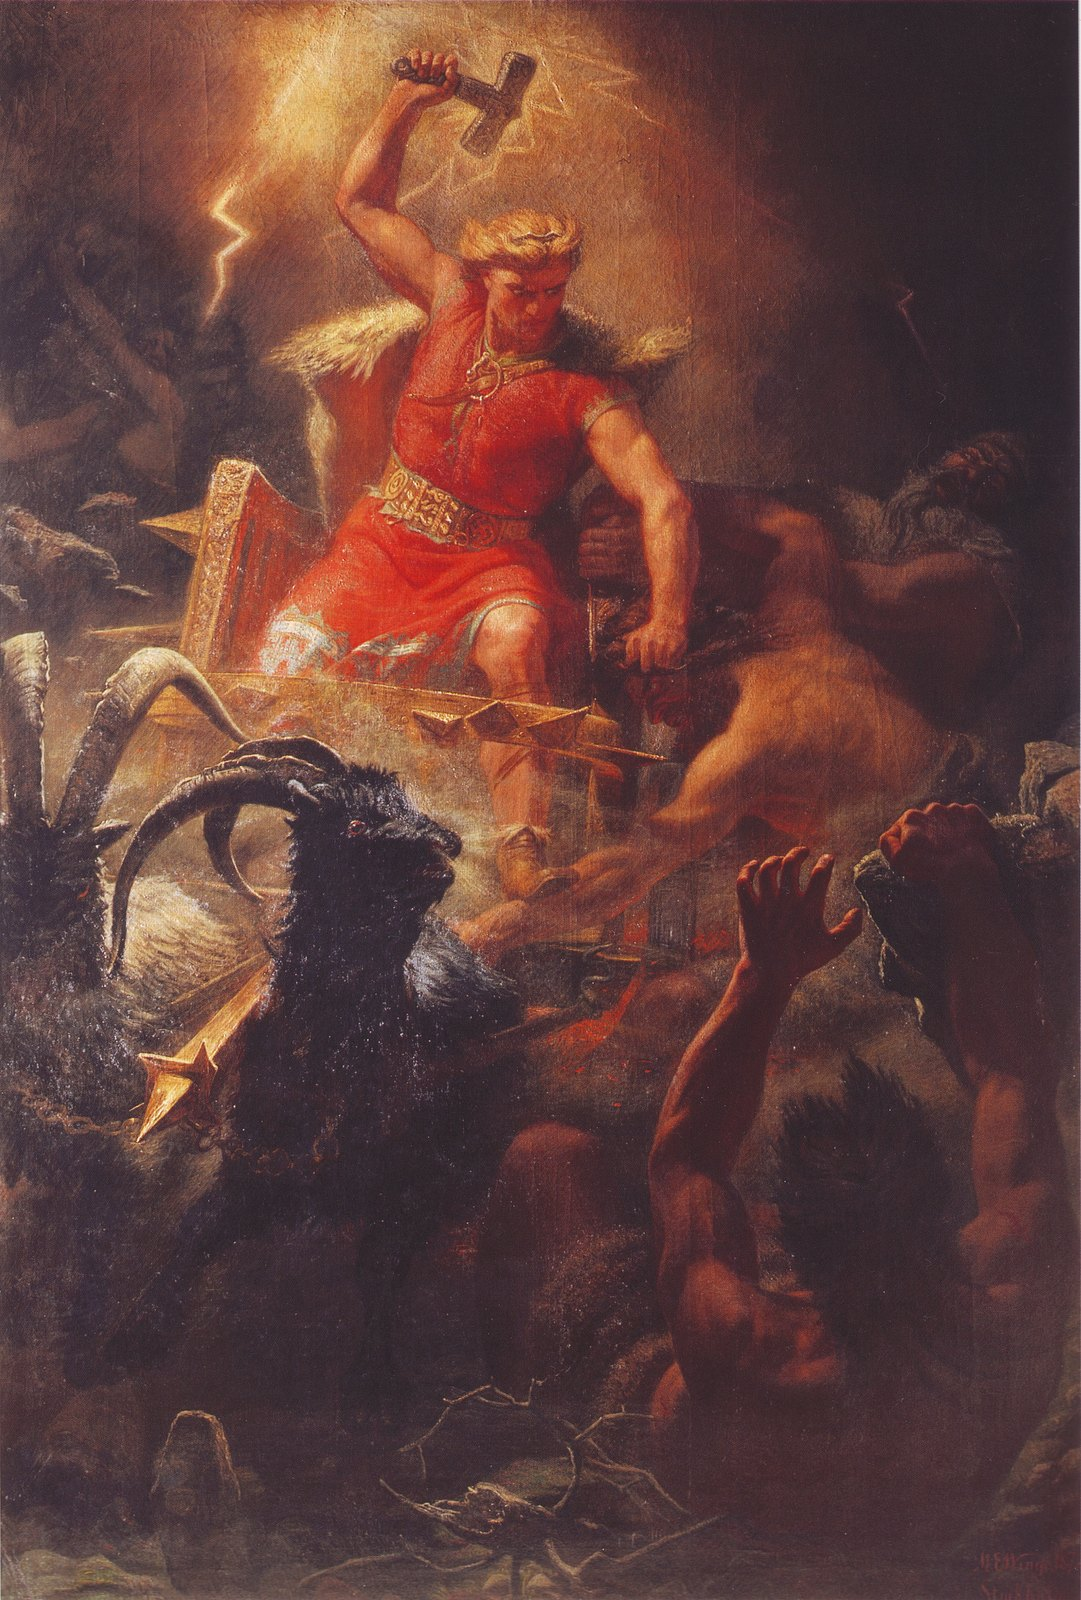
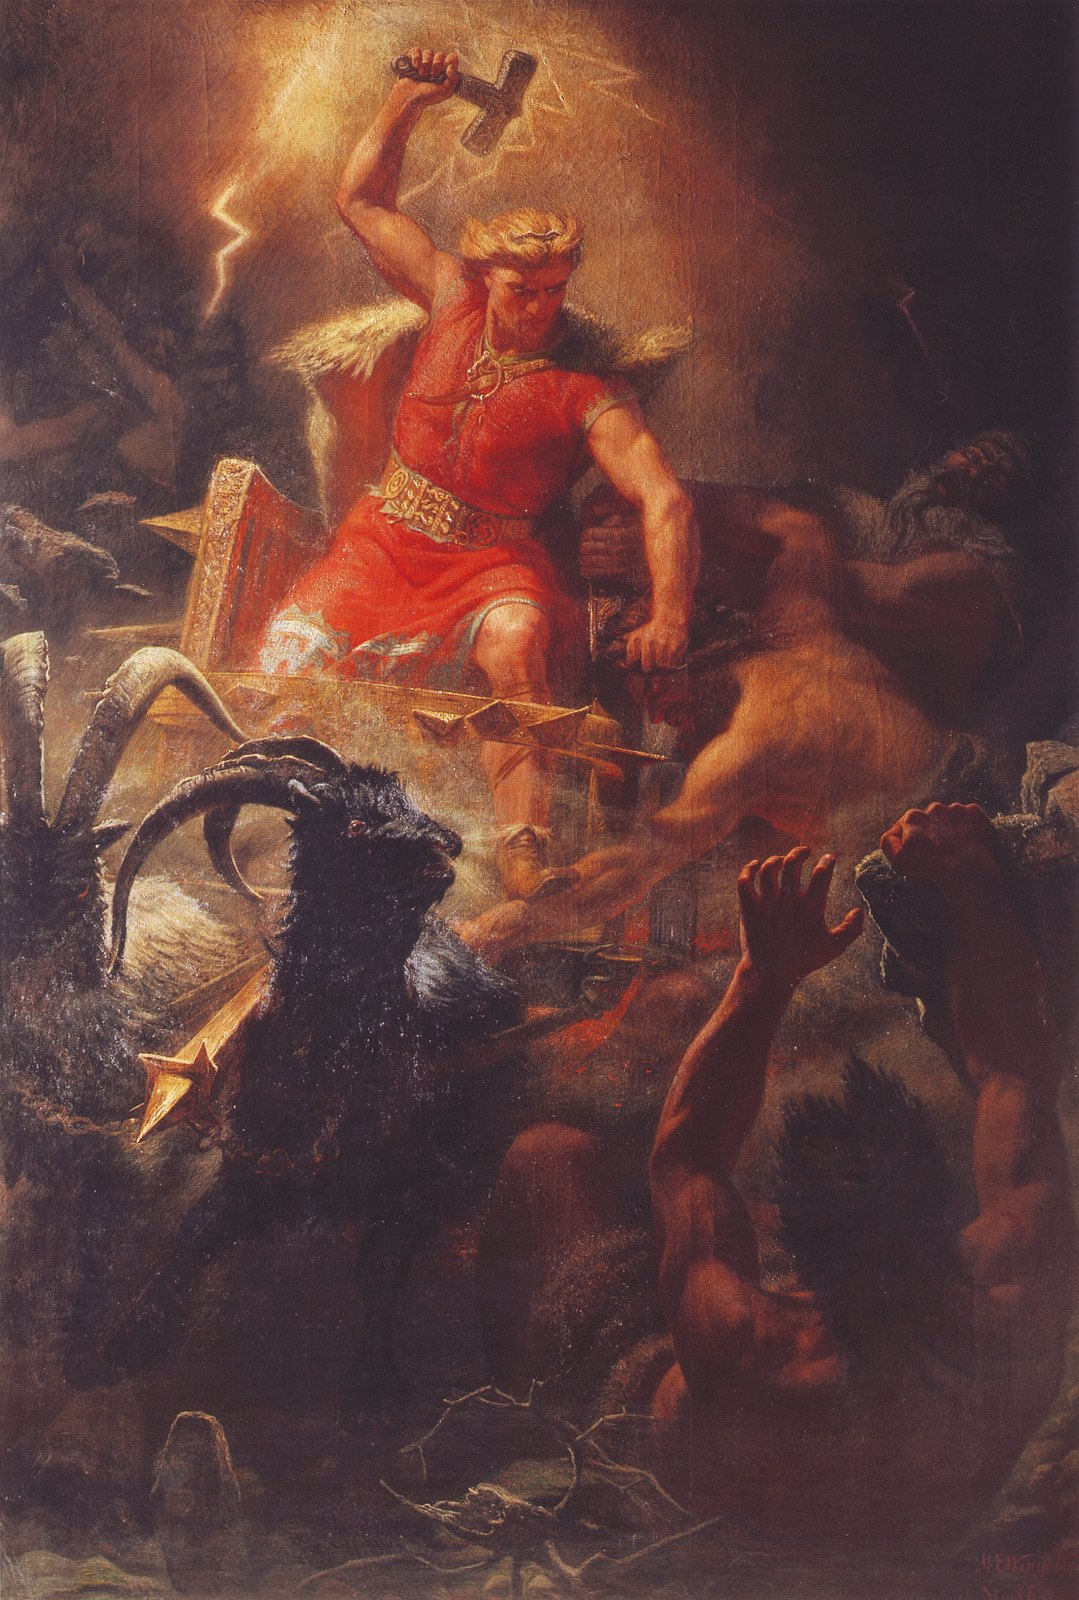
trim: shave scan margins before cutting; Winge loses its white book edge
`trim: [left, top, right, bottom]` narrows the area that cuts, previews
and thumbnails are taken from. The original is untouched. The Edda scan
of Thor's Fight with the Giants carried a white strip on the right and a
bright first row; the slices are now cut inside them.

diff --git a/README.md b/README.md
@@ -43,6 +43,8 @@ Candidate scans can be dropped into `incoming/`, which is gitignored; check thei
      16x9: [0, 400, 7119, 4004]   # x y width height
    ```
 
+   A scan with a border or book edge takes `trim: [left, top, right, bottom]` in pixels; cuts, previews and thumbnails are taken from the trimmed area, the original stays untouched.
+
    Tall paintings that only work as several wide cuts take a `slices` list instead of one focal point. Each slice names its files, has its own focal point (and optional `crops`), and gets its own preview on the page:
 
    ```yaml

diff --git a/content/paintings/winge-thors-fight-with-the-giants.md b/content/paintings/winge-thors-fight-with-the-giants.md
@@ -8,6 +8,7 @@ source: "https://commons.wikimedia.org/wiki/File:Thor's_Battle_Against_the_Jötn
 license: PD
 original: winge-thors-fight-with-the-giants.jpg
 focal: [0.5, 0.5]
+trim: [2, 6, 14, 4]
 slices:
   - name: thor
     title: "Thor and Mjölnir"
